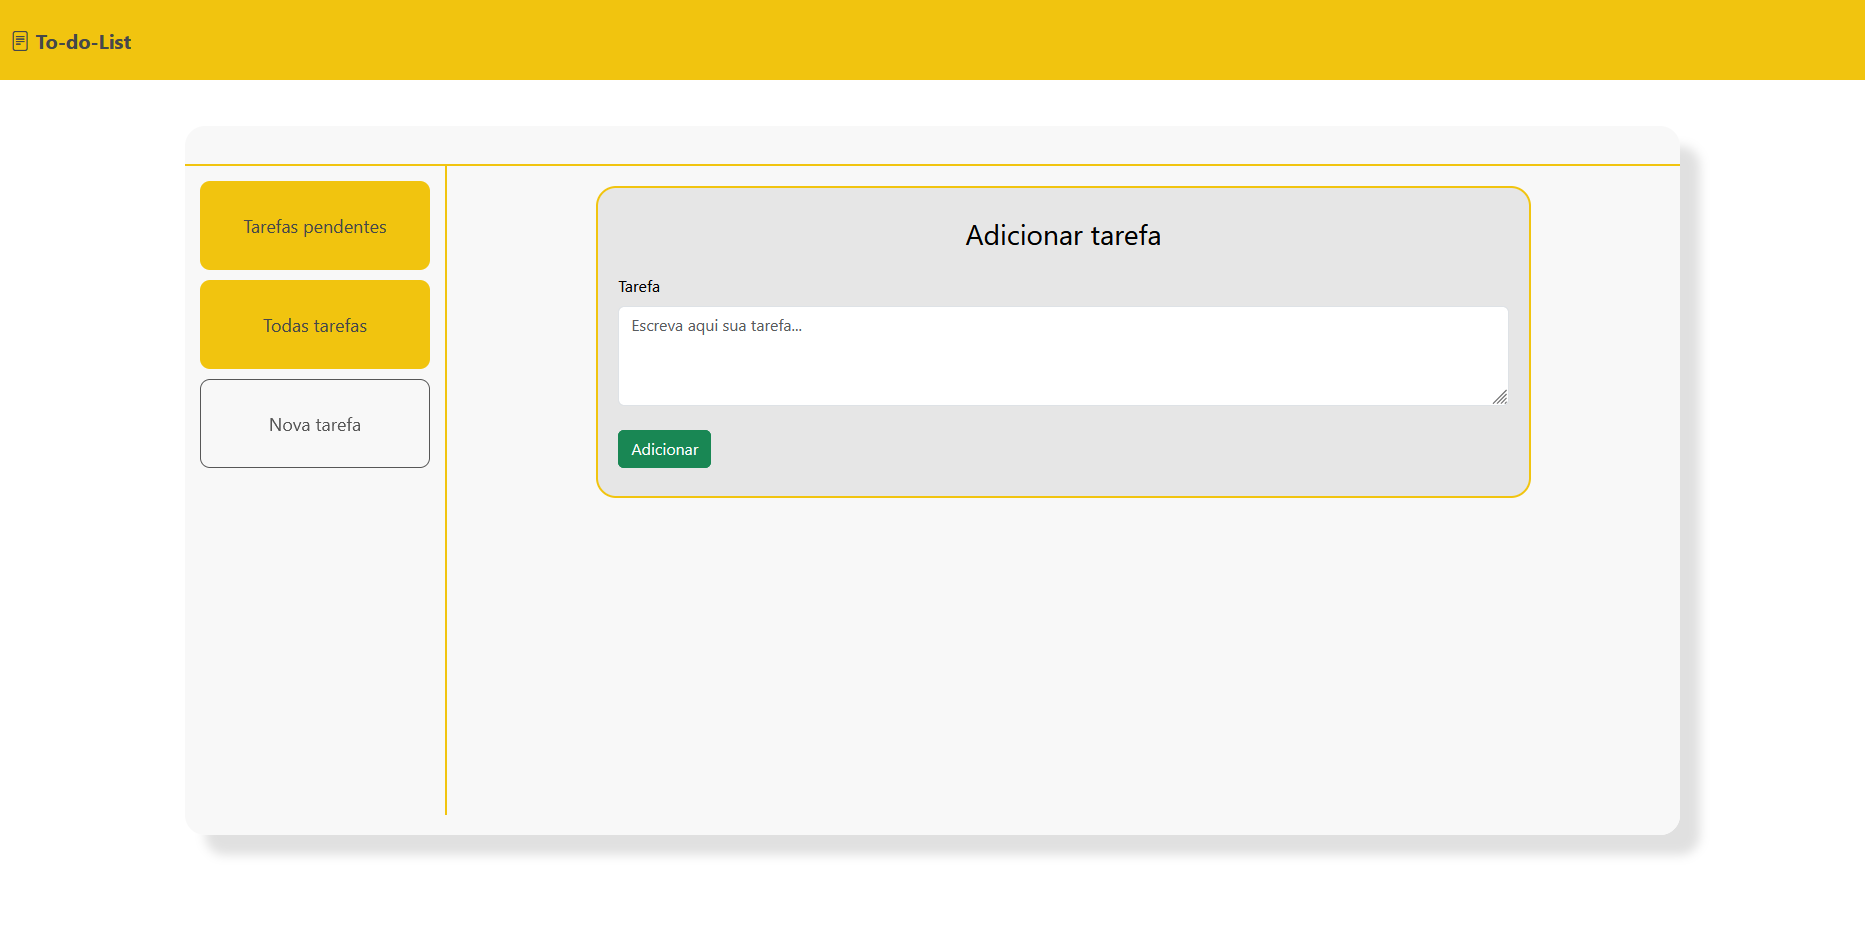
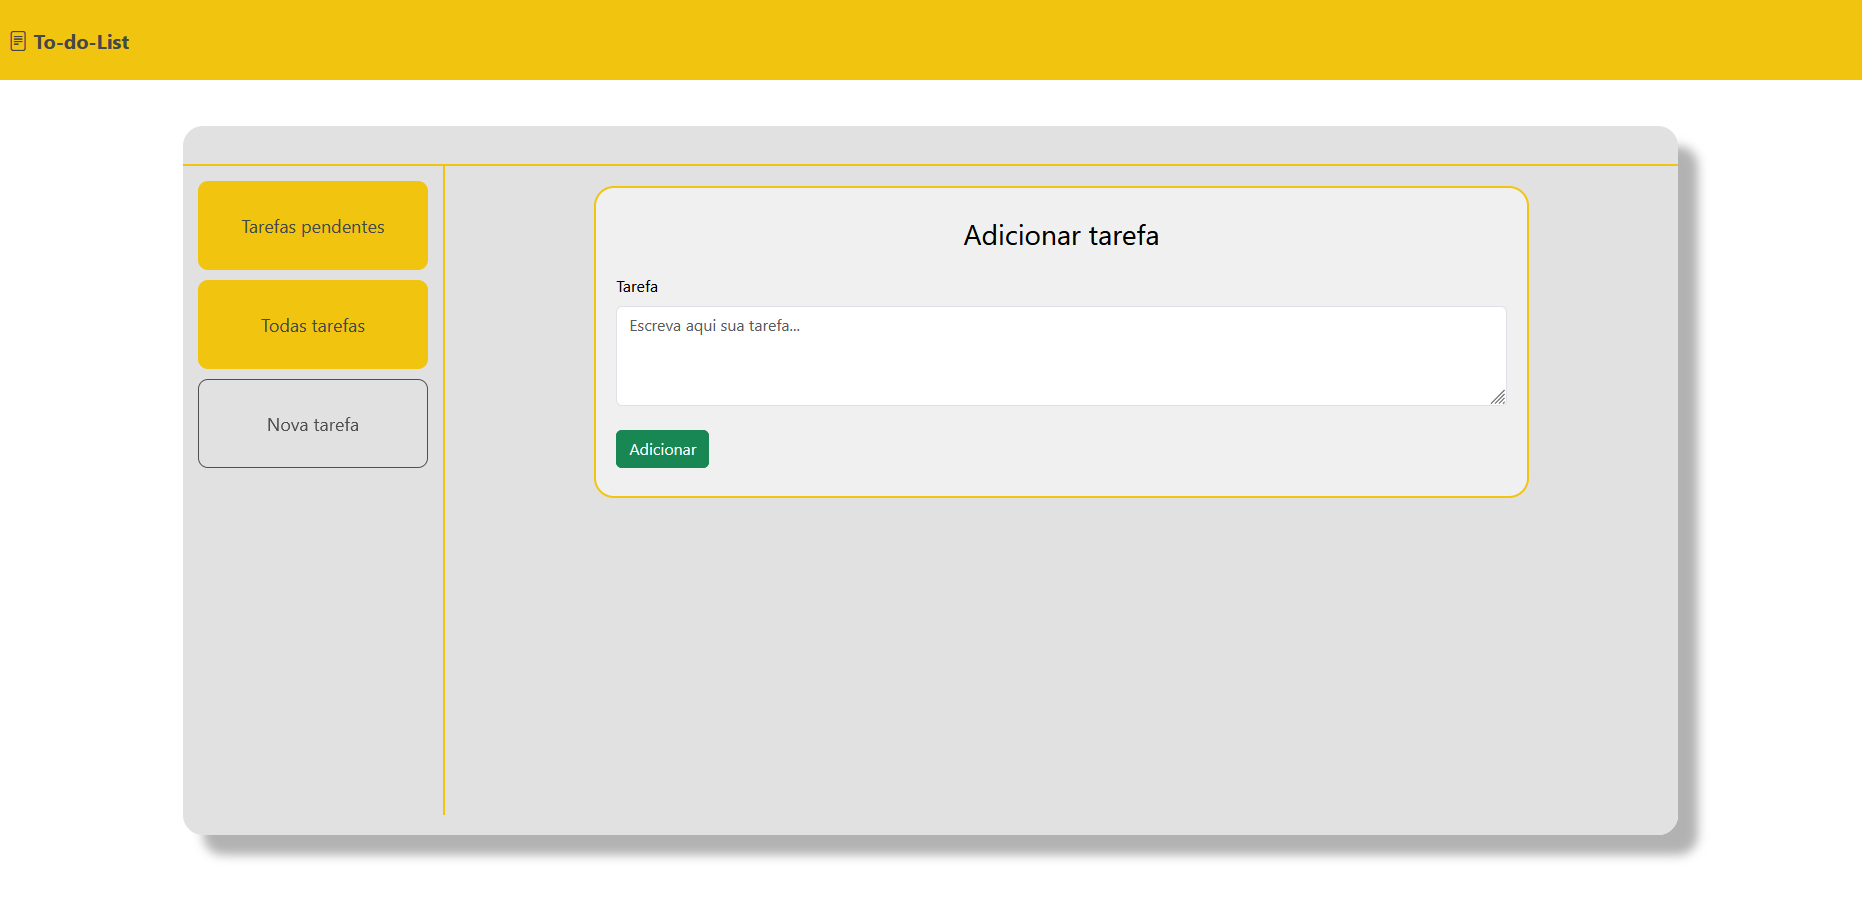
Adicionado arquivo migrate

diff --git a/public/styles.css b/public/styles.css
@@ -3,14 +3,14 @@
 =======================================*/
 :root {
     --background: white;
-    --menu-background: rgb(248, 248, 248);
+    --menu-background: rgb(225, 225, 225);
     --main-color: #f1c40f;
     --second-color: #f1c40fb4;
     --tertiary-color: #696758;
     --warning: #ff475b;
     --success: #23ae6e;
     --card: #f0e48d;
-    --form-color: rgb(230, 230, 230);
+    --form-color: rgb(240, 240, 240);
 }
 
 /* =======================================
@@ -105,7 +105,7 @@ body, html {
 }
 
 .div-aux {
-    box-shadow: 20px 20px 10px rgba(0, 0, 0, 0.123);
+    box-shadow: 20px 20px 10px rgba(0, 0, 0, 0.3);
     border-radius: 20px;
 }
 

diff --git a/src/Config/migrate.php b/src/Config/migrate.php
@@ -1,0 +1,37 @@
+<?php 
+
+    $host = 'localhost';
+    $db_name = 'to_do_list';
+    $user = 'root';
+    $pass = '';
+    $charset = 'utf8mb4';
+
+    try
+    {
+        $pdo = new PDO("mysql:host=$host", $user, $pass);
+
+        $init_db_query = 'create database if not exists to_do_list;';
+        $init_table_query = 'create table if not exists tarefas(
+                    id int not null auto_increment,
+                    id_status int not null default 1, 
+                    descricao varchar(200) not null,
+                    data date,
+                    primary key (id)
+                    )';
+
+        $pdo->query($init_db_query);
+        $pdo->exec('USE to_do_list');
+        $pdo->query($init_table_query);
+
+        echo 'Banco de dados inicializado com sucesso!';
+
+    }
+    catch(PDOException $e)
+    {
+        echo 'Ocorreu um erro ao inicializar o banco de dados!<br/>' . 
+        $e->getMessage() . 
+        '<br/>' . 
+        $e->getCode();
+    }
+
+?>
